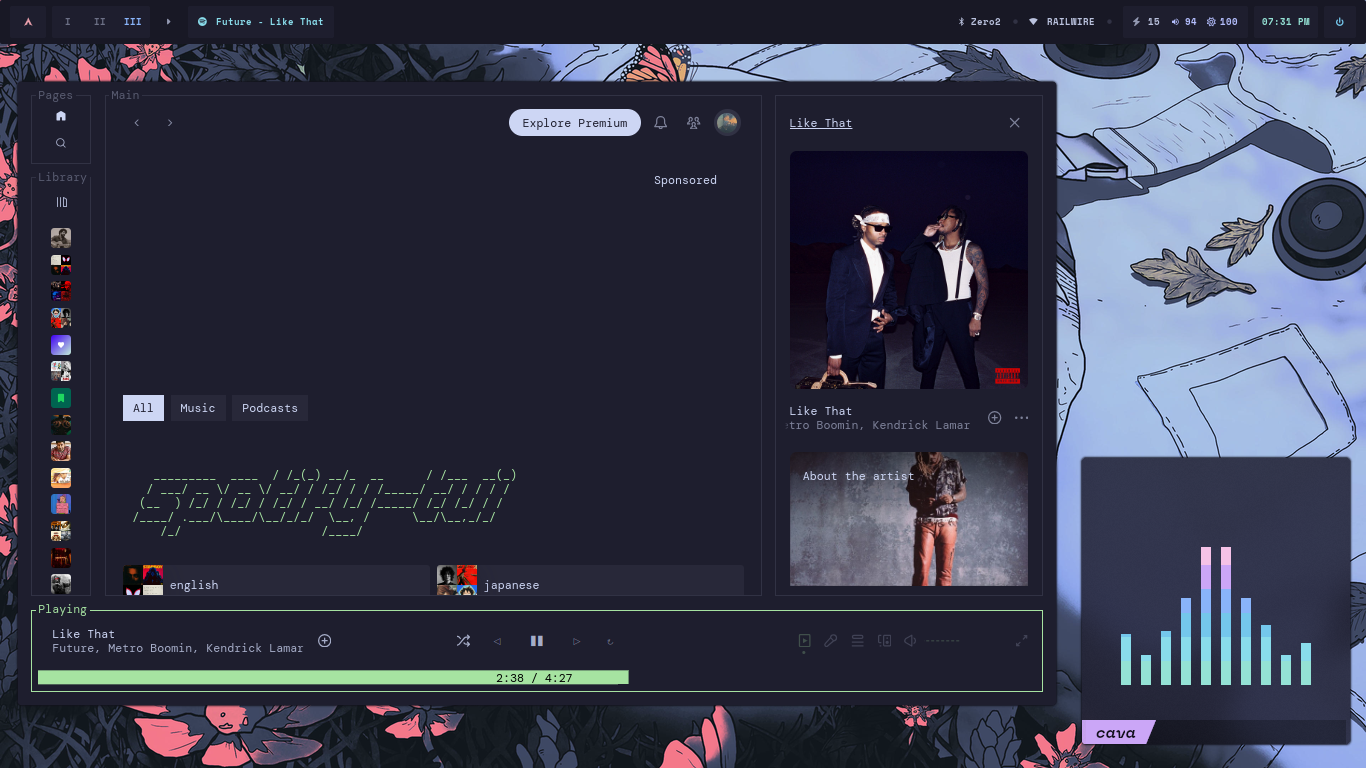
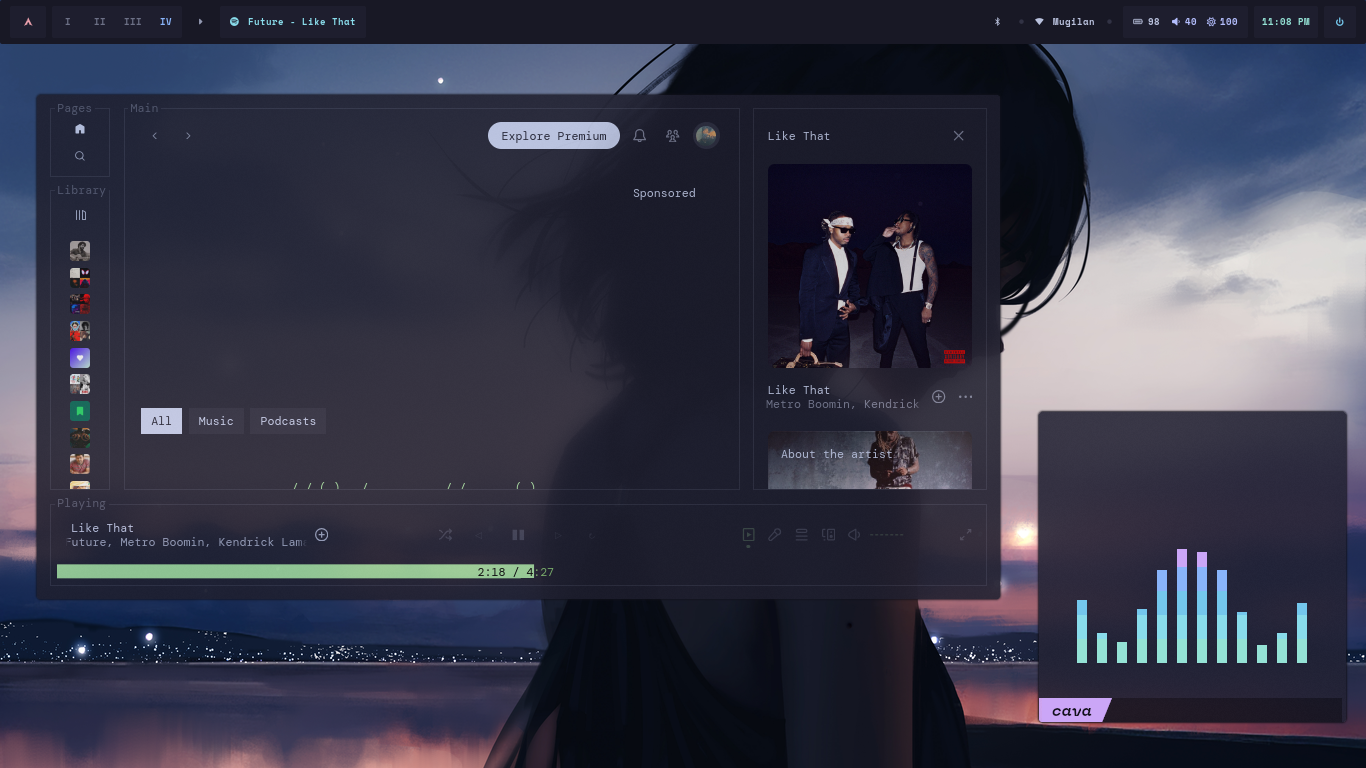
added screenshots

diff --git a/config/waybar/config.css b/config/waybar/config.css
@@ -1,1 +1,1 @@
-/home/rei/.config/waybar/styles/Rounded.css
+/home/rei/.config/waybar/styles/Minimal.css
